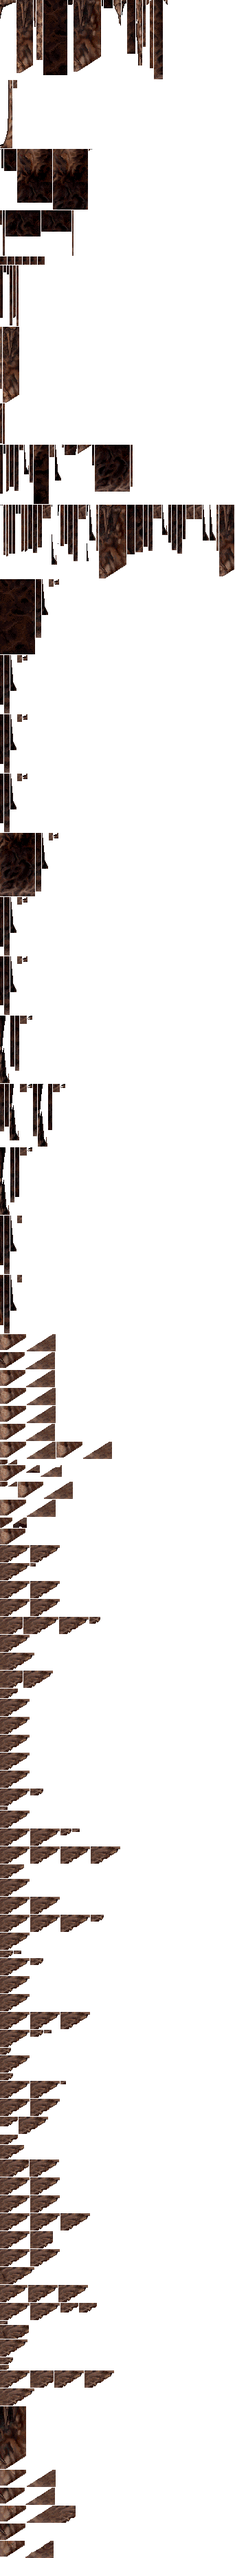
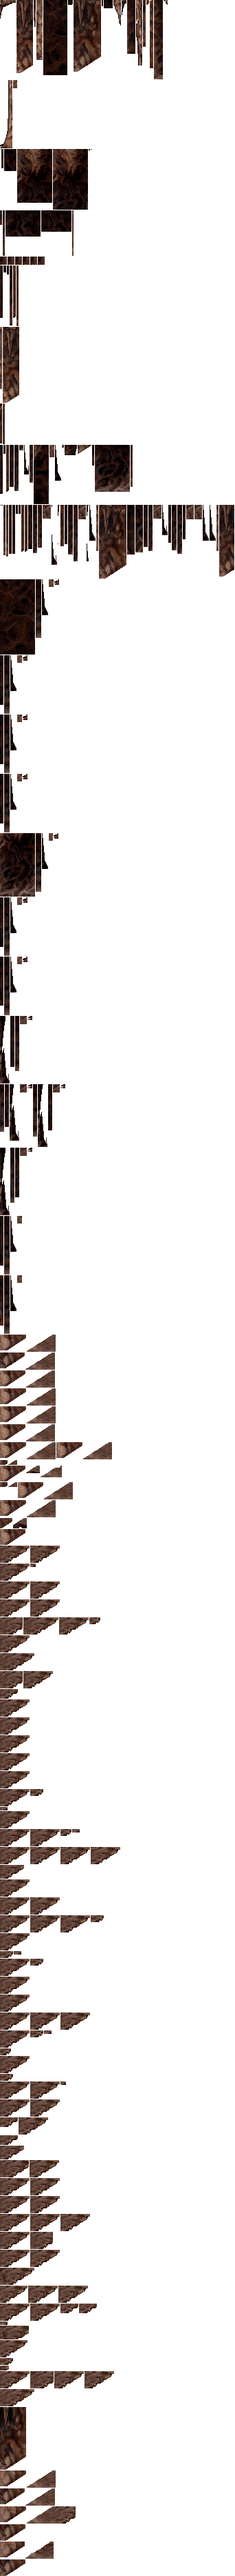
Blend approved floor joins in level 3 room 13

diff --git a/tests/test_cavern_retouch.py b/tests/test_cavern_retouch.py
@@ -56,7 +56,7 @@ class BundledCavernRetouchTests(unittest.TestCase):
 
     def test_bundled_variants_have_valid_scope_and_crop_sizes(self):
         assets = retouch_assets()
-        self.assertEqual(len(assets), 130)
+        self.assertEqual(len(assets), 131)
         self.assertEqual({key[0] for key in assets}, {0, 1, 2, 3, 4, 5, 6, 7, 8, 9, 10, 11, 12, 13, 14, 15, 16, 18, 20, 21, 23, 24, 25, 26, 27, 29, 30, 31})
         for key, (record, image) in assets.items():
             with self.subTest(key=key):

diff --git a/docs/CAVERN_ARTWORK.md b/docs/CAVERN_ARTWORK.md
@@ -428,3 +428,4 @@ the separate `rendered/level3-room30-joins-v1/` reference.
[4 lines of base64/hex data omitted]
